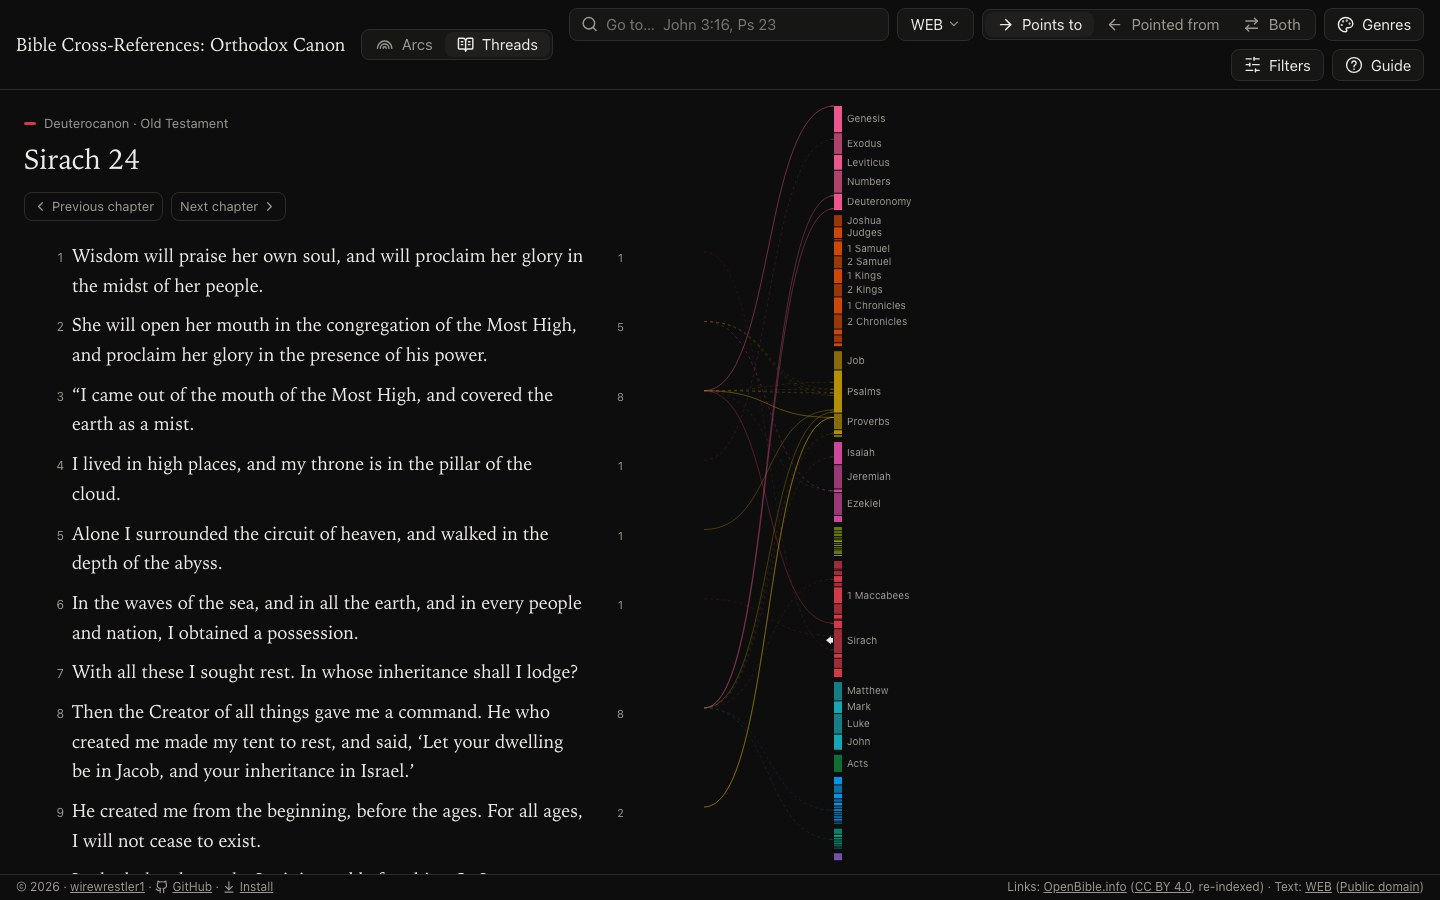
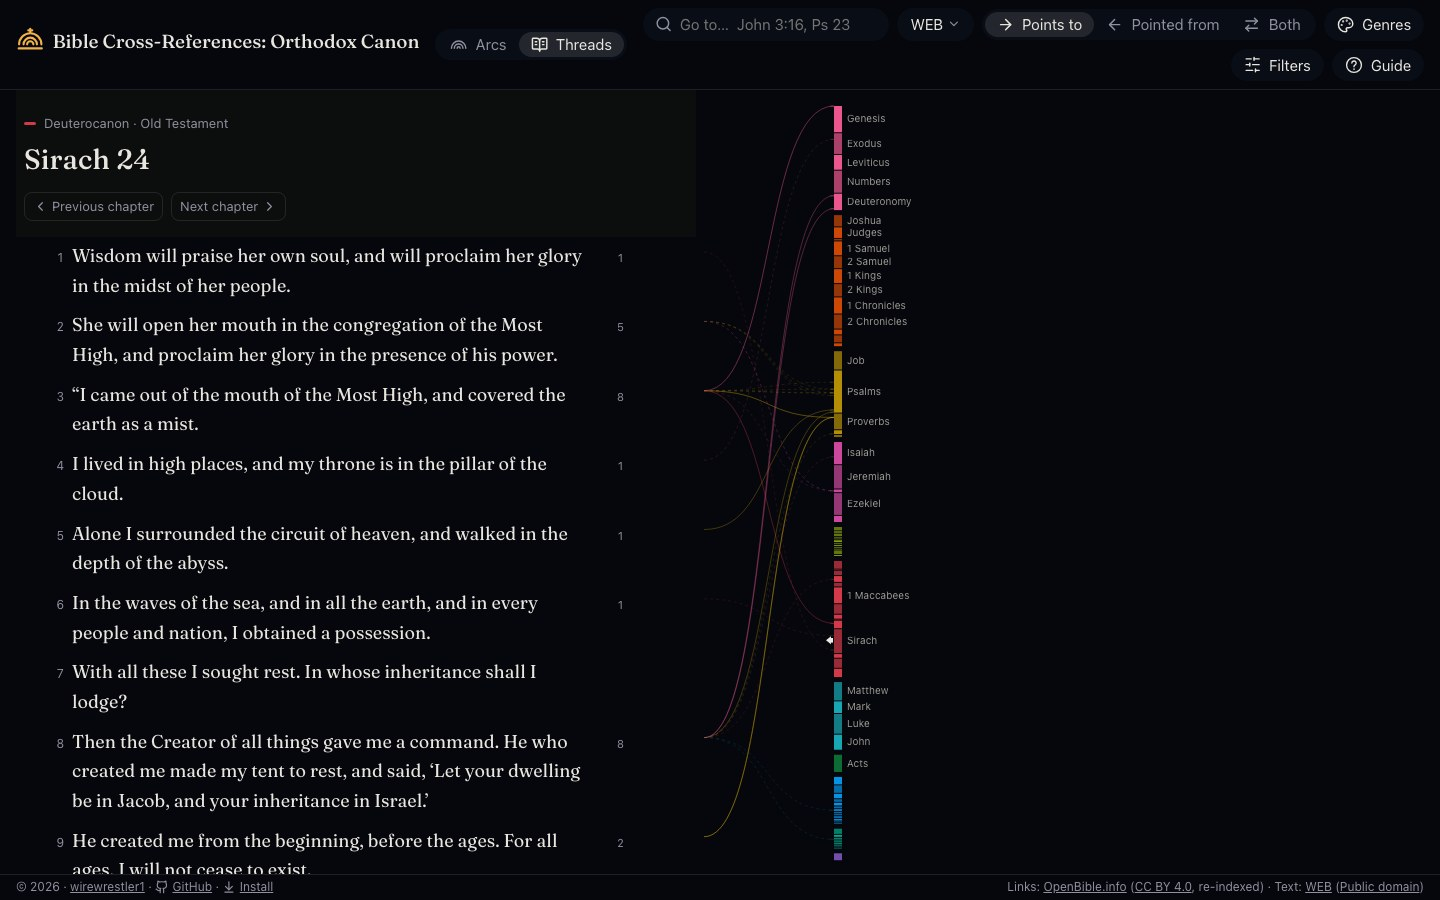
Observatory, part four: the pictures and the record
The share picture, the screenshots and the phone shot are drawn from the new frame, and the
README describes the look, names Fraunces and its licence, and says where the mark lives.

diff --git a/README.md b/README.md
@@ -115,6 +115,19 @@ text you are reading all work with no connection. On an iPhone or iPad that firs
 happen inside the installed app: a home-screen app there has storage of its own, apart from
 Safari's.
 
+### The look
+
+Deep space: a near-black blue surface, the arcs as the only light, and the chrome a thin layer
+of glass over them — pills and sheets with no borders that brighten when touched. The books
+along the axis cast their colour around them, the focus is a warm gold light, and the legend
+folds into a strip of the genres' dots. The name, the titles and the verses are set in
+[Fraunces](https://github.com/undercasetype/Fraunces) (SIL Open Font License 1.1, bundled from
+`@fontsource-variable/fraunces` so the installed app keeps it); everything else in the system
+face, so labels cost no download. The mark — three arcs rising from a baseline under a cross, a
+dome — has one source, [`src/shared/ui/mark-paths.ts`](src/shared/ui/mark-paths.ts), that the
+header, the first frame and the favicon draw from; `node scripts/icons.ts` rasterizes it into
+the app icons.
+
 ## Languages
 
 This release speaks English. The repository still holds the words of five more languages —
@@ -320,6 +333,7 @@ put the domain in a `CNAME` file under `public/`.
   the arcs follow.
 - OpenBible.info, eBible.org, CrossWire, Projekt Runeberg, STEPBible and the Berean Bible, for
   publishing their data under licences that let a project like this exist.
+- [Undercase Type](https://undercase.xyz), for Fraunces, under the SIL Open Font License.
 
 ## License
 
